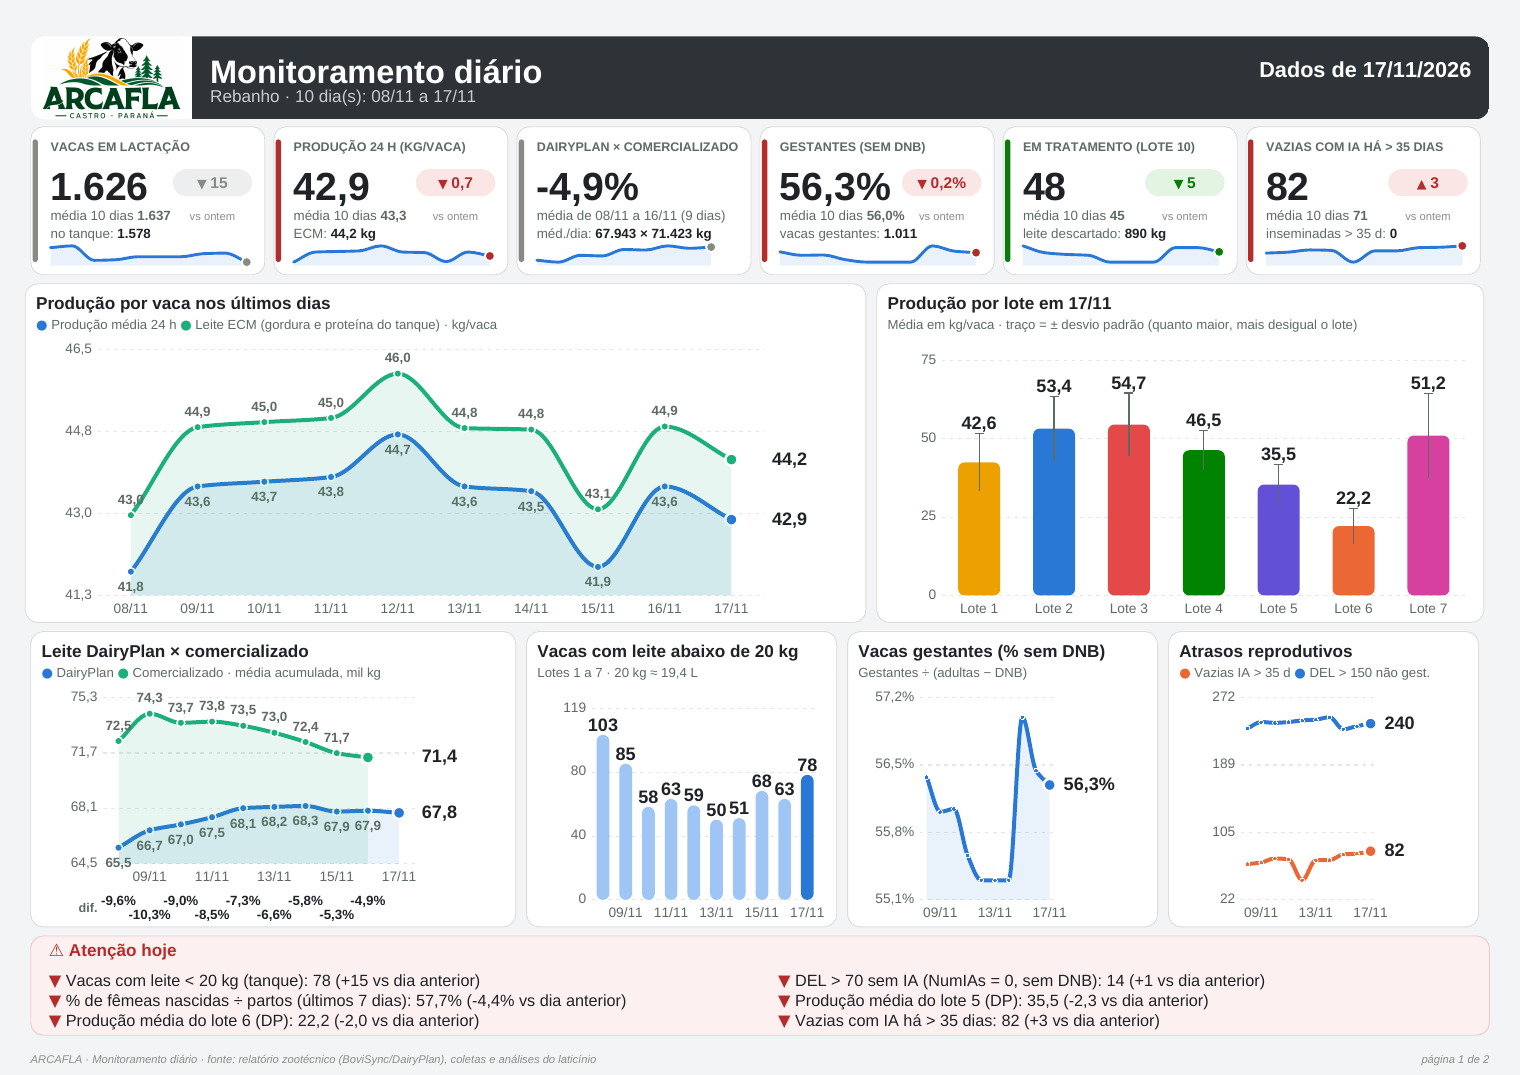
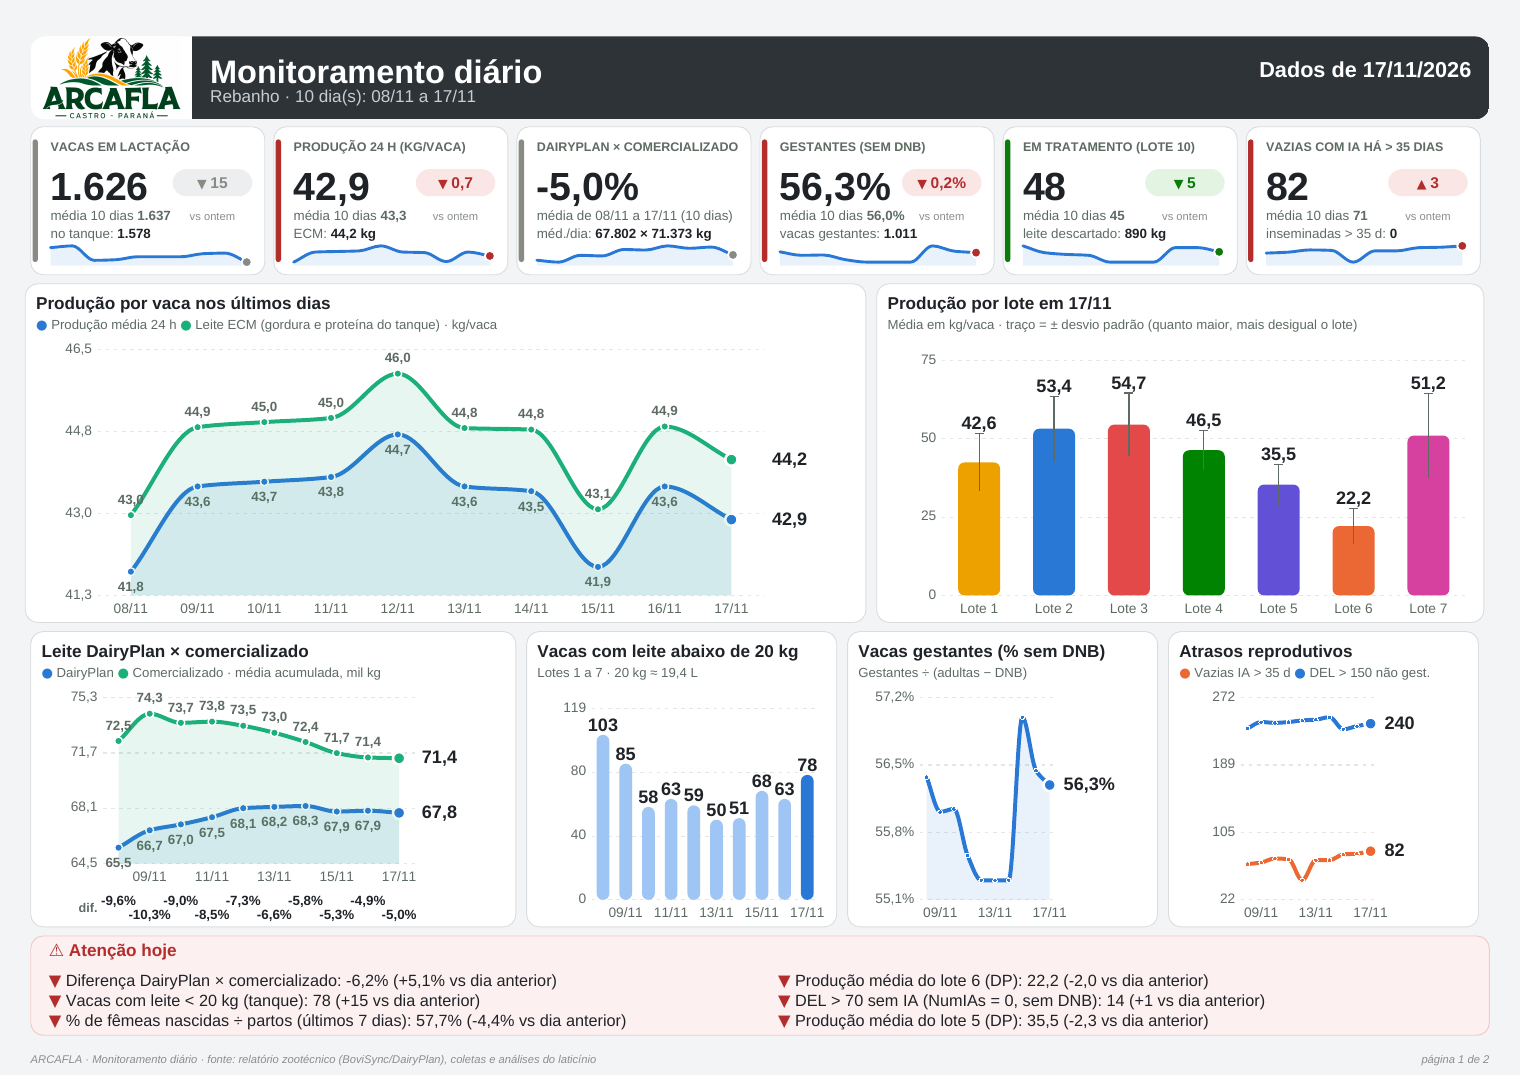
Coletas: última data do PDF entra quando já tem as 2 coletas do dia (17/11)
Claude-Session: https://claude.ai/code/session_01E6SmznsG4fwjxZt5rHRDBH

diff --git a/scripts/le_leite_vendido.py b/scripts/le_leite_vendido.py
@@ -8,7 +8,7 @@ análises do tanque pelo volume. O PDF é guardado em dados/leite_vendido/.
 A cada execução os totais são refeitos com todos os PDFs guardados: as coletas de todos eles são
 juntadas pelo número do boleto (sem repetir), e o total do dia é a soma das coletas com aquela data.
 Do PDF mais recente, são ignoradas as coletas com data igual ou posterior à de emissão e as da última
-data de coleta: esses dias podem estar incompletos (ex.: PDF emitido em 21/10 às 14:31 só tinha uma
+data de coleta quando ela ainda não tem 2 coletas grandes (> 1.000 L): esses dias podem estar incompletos (ex.: PDF emitido em 21/10 às 14:31 só tinha uma
 coleta com data de 20/10). O próximo PDF completa esses dias. Isso também resolve a virada do mês
 (relatório mensal por data de recepção: parte das coletas de 30/10 só aparece no PDF de novembro).
 
@@ -54,7 +54,13 @@ def le(pdf):
     em = EMITIDO.search(txt)
     # dia da emissão (e depois) e a última data de coleta do relatório podem estar incompletos
     corte = datetime.strptime(em[1], "%d/%m/%Y").date().isoformat() if em else "9999"
-    corte = min(corte, max(dias)) if dias else corte
+    # a última data de coleta só entra se já tiver as 2 coletas grandes (> 1.000 L) do dia (pedido da usuária em
+    # 18/11/2026: o PDF de 18/11 10h49 tinha 17/11 completo, com as coletas das 05h55 e das 18h01)
+    if dias:
+        ult = max(dias)
+        grandes = sum(1 for c in col if c["data"] == ult and c["volume"] > 1000)
+        if grandes < 2:
+            corte = min(corte, ult)
     return n, em, col, corte
 
 

diff --git a/claude/notas_analise_ARKAFLA.md b/claude/notas_analise_ARKAFLA.md
@@ -970,3 +970,8 @@ Este é o modelo oficial do PDF diário. Não mudar o layout sem pedido do usuá
 - Partos: 16/11 corrigido sozinho para 5 (4 lançados à tarde); 17/11 = 0 por enquanto (4 vacas foram do 14 para o 7).
 - 4 saídas de adultas, todas do lote 10 (uma fresca DEL 6). Lote 10: 0 entradas, 5 saídas → 48.
 - Vazias IA > 35 d: 82 (+3); % fêmeas ÷ partos 7 d: 58% (bezerros de 14–17/11 ainda sem cadastro?).
+- Pedido 18/11 ("comercializado do dia 17 não entrou"): o PDF de 18/11 10h49 já tinha 17/11 completo (05h55
+  tanque 2 35.617 L + 18h01 tanque 3 33.107 L = 68.724 L = 70.923 kg; DairyPlan −6,2%), mas a regra cortava sempre a
+  última data de coleta. Regra nova em le_leite_vendido.py: a última data entra quando já tem 2 coletas > 1.000 L.
+- Com 07/11 fora da janela de 10 dias (08–17/11), a média do período ficou em −5,0%: 08/11 (−9,6%) ainda carrega o
+  leite que a coleta única de 07/11 não levou.
